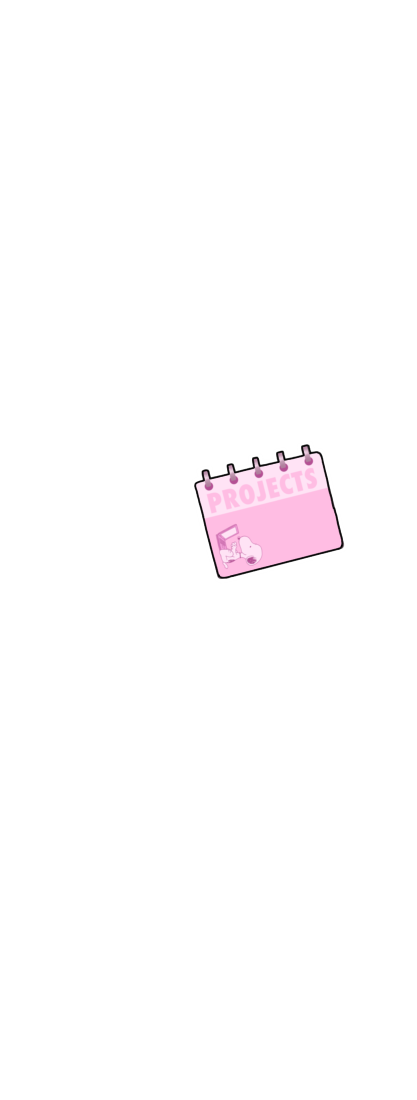
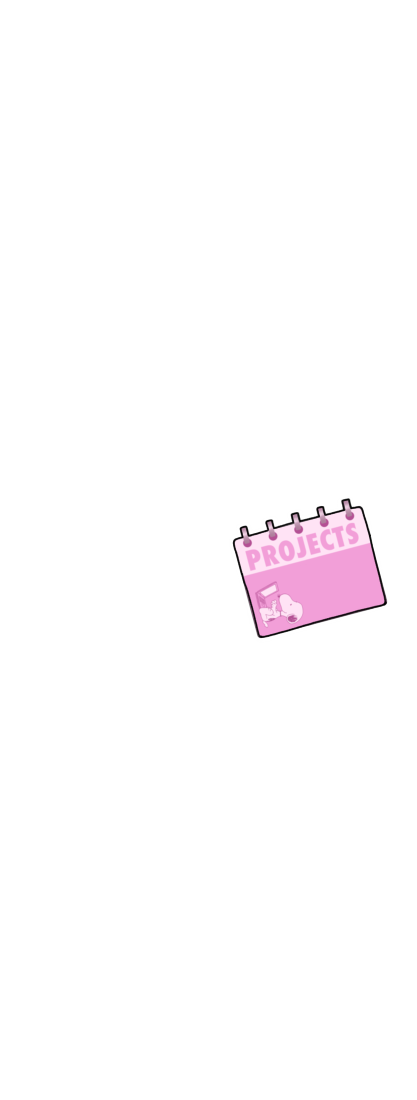
notebook complete

Changed region(s): [[0.4676, 0.4018, 0.9353, 0.5873]]

diff --git a/script.js b/script.js
@@ -509,8 +509,9 @@ window.addEventListener("scroll", () => {
 
                 const scale3 = ((1/1.5) + progress) * 1.5;
                 const scale4 = ((1/12)+ progress) * 12;
-                const scale5 = ((1/5)+ progress) * 5;
-                
+                const scale5 = ((1/0.06)+ progress) * 0.06;
+                const scale6 = ((1/22) + progress) * (-22);
+                 
                 avatarImg.style.width = 'auto';
                 avatarImg.style.flexShrink = '0';
                 avatarImg.style.transform = `translateY(${scale4}%) scale(${scale3})`;
@@ -521,7 +522,7 @@ window.addEventListener("scroll", () => {
                 outfitSwitch.style.flexDirection = 'column';
                 outfitSwitch.style.justifyContent = 'start';
 
-                        if (!notebookCreated) {
+            if (!notebookCreated) {
                 const notebook = document.createElement('img');
                 notebook.src = '/images/project-notebook-unselected.PNG';
                 notebook.alt = 'project-notebook';
@@ -538,7 +539,7 @@ window.addEventListener("scroll", () => {
 
             const notebook = innerWindow.querySelector('.notebook');
             if (notebook) {
-                notebook.style.transform = `translateY(${scale5}%) scale(${scale3})`;
+                notebook.style.transform = `translateX(${scale6}%) translateY(${scale5}%) scale(${scale3})`;
                 notebook.style.transformOrigin = 'center center';
             }
 
@@ -616,6 +617,27 @@ window.addEventListener("scroll", () => {
                 outfitSwitch.style.flexShrink = '0';
                 outfitSwitch.style.width = 'auto';
             }
+
+            // notebook select
+            const notebookHoverArea = document.createElement('div');
+            notebookHoverArea.className = 'notebook-hover-area';
+            notebookHoverArea.style.position = 'absolute';
+            notebookHoverArea.style.cursor = 'pointer';
+
+            notebookHoverArea.style.width = '20%';
+            notebookHoverArea.style.height = '19%';
+            notebookHoverArea.style.left = '45%';
+
+            innerWindow.appendChild(notebookHoverArea);
+
+            const notebook = clone.querySelector('.notebook');
+            notebookHoverArea.addEventListener('mouseover', () => {
+                notebook.src = '/images/project-notebook-selected.PNG';
+            })
+
+            notebookHoverArea.addEventListener('mouseout', () => {
+                notebook.src = '/images/project-notebook-unselected.PNG';
+            })
         }
     }
 
